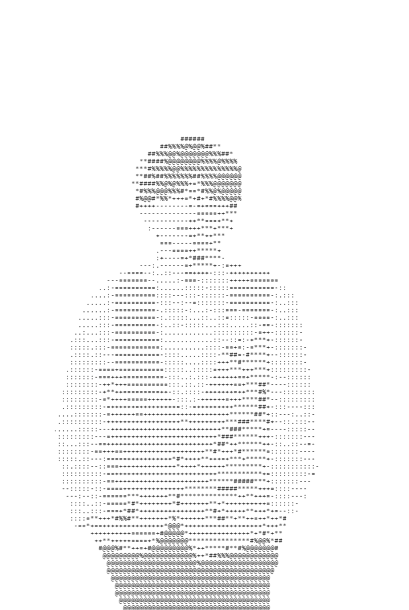
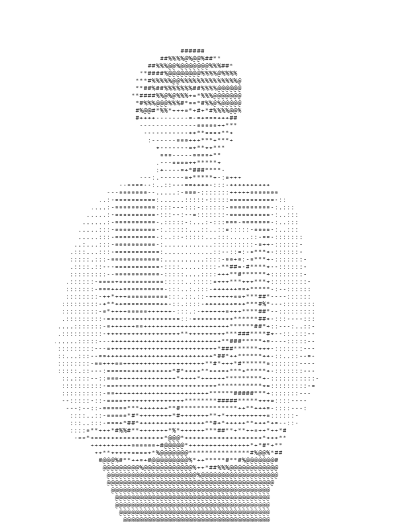
Resizing of image

Changed region(s): [[0.1467, 0.092, 0.7628, 1.0], [0.7042, 0.3985, 0.7335, 0.4291]]

diff --git a/src/pages/Home.js b/src/pages/Home.js
@@ -9,7 +9,7 @@ function Home() {
         <React.Fragment>
             <div className="h-screen overflow-hidden">
                 <NavBar />
-                <div className="homeContent mx-5 flex flex-wrap items-center justify-between flex-row">
+                <div className="homeContent mx-5 flex flex-wrap items-end justify-between flex-row h-5/6">
                     <div className="textContent flex flex-wrap items-center justify-between flex-col">
                         <div>
                             <h1 className="text-blue-500 text-8xl text-left font-bold">Jhondel </h1>
@@ -19,7 +19,7 @@ function Home() {
                         </div>
                     </div>
                     <div>
-                        <img src={meImage} alt="me" className="scale-[1.6] mr-10" />
+                        <img src={meImage} alt="me" className="scale-125 mr-10" />
                     </div>
                 </div>
             </div>

diff --git a/src/components/Navbar.js b/src/components/Navbar.js
@@ -1,7 +1,7 @@
 function Navbar() {
     return (
         <>
-            <div className="flex items-center justify-between flex-col">
+            <div className="flex items-center justify-between flex-col z-10">
                 <div className='navBar flex items-center justify-between flex-row m-5 w-full'>
                     <div className="logoContainer">
                         <img className="w-14 h-14 ml-8" src="/favicon.ico" alt="logo" />

diff --git a/src/index.css b/src/index.css
@@ -2,6 +2,12 @@
 @tailwind components;
 @tailwind utilities;
 
+*{
+  z-index: 0;
+  margin: 0;
+  padding: 0;
+}
+
 body {
   margin: 0;
   font-family: -apple-system, BlinkMacSystemFont, 'Segoe UI', 'Roboto', 'Oxygen',
